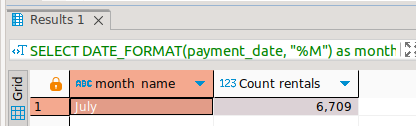
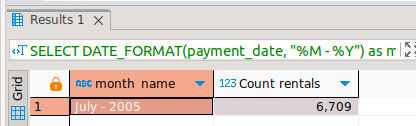
implementation sdb-hw-12-04  - FIX

Changed region(s): [[0.75, 0.3571, 0.9688, 0.4762], [0.25, 0.8095, 0.3438, 0.881]]

diff --git a/sdb-hw-12-04/solutions.md b/sdb-hw-12-04/solutions.md
@@ -40,13 +40,12 @@ WHERE `length` > (SELECT AVG(`length`) FROM film)
 Получите информацию, за какой месяц была получена наибольшая сумма платежей, и добавьте информацию по количеству аренд за этот месяц.
 
 ```sql
-SELECT DATE_FORMAT(payment_date, "%M") as month_name, COUNT(rental_id) as 'Count rentals' 
+SELECT DATE_FORMAT(payment_date, "%M - %Y") as month_name, COUNT(rental_id) as 'Count rentals' 
 FROM payment
 GROUP BY month_name 
 ORDER BY SUM(amount) DESC 
 LIMIT 1;
 ```
-
 ![img.png](img/3_0.png)
 
 ## Дополнительные задания (со звёздочкой*)
